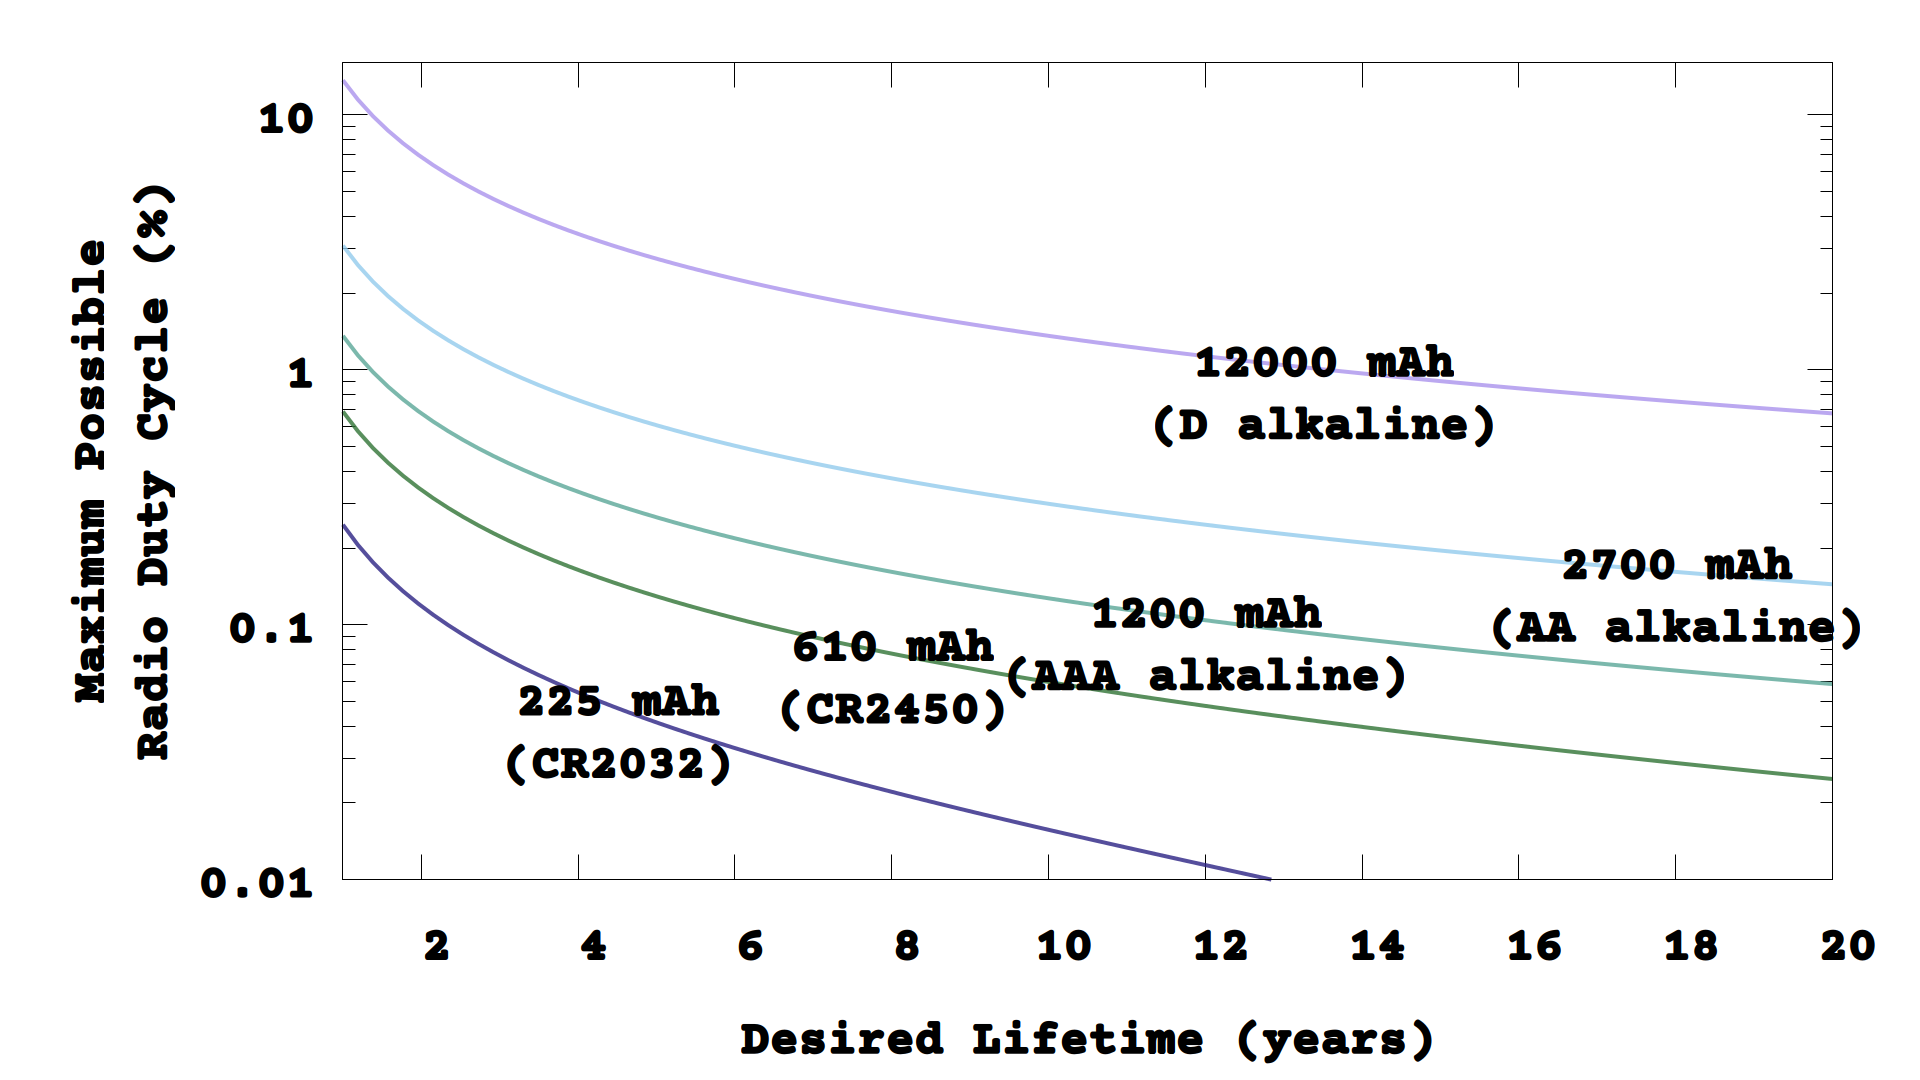
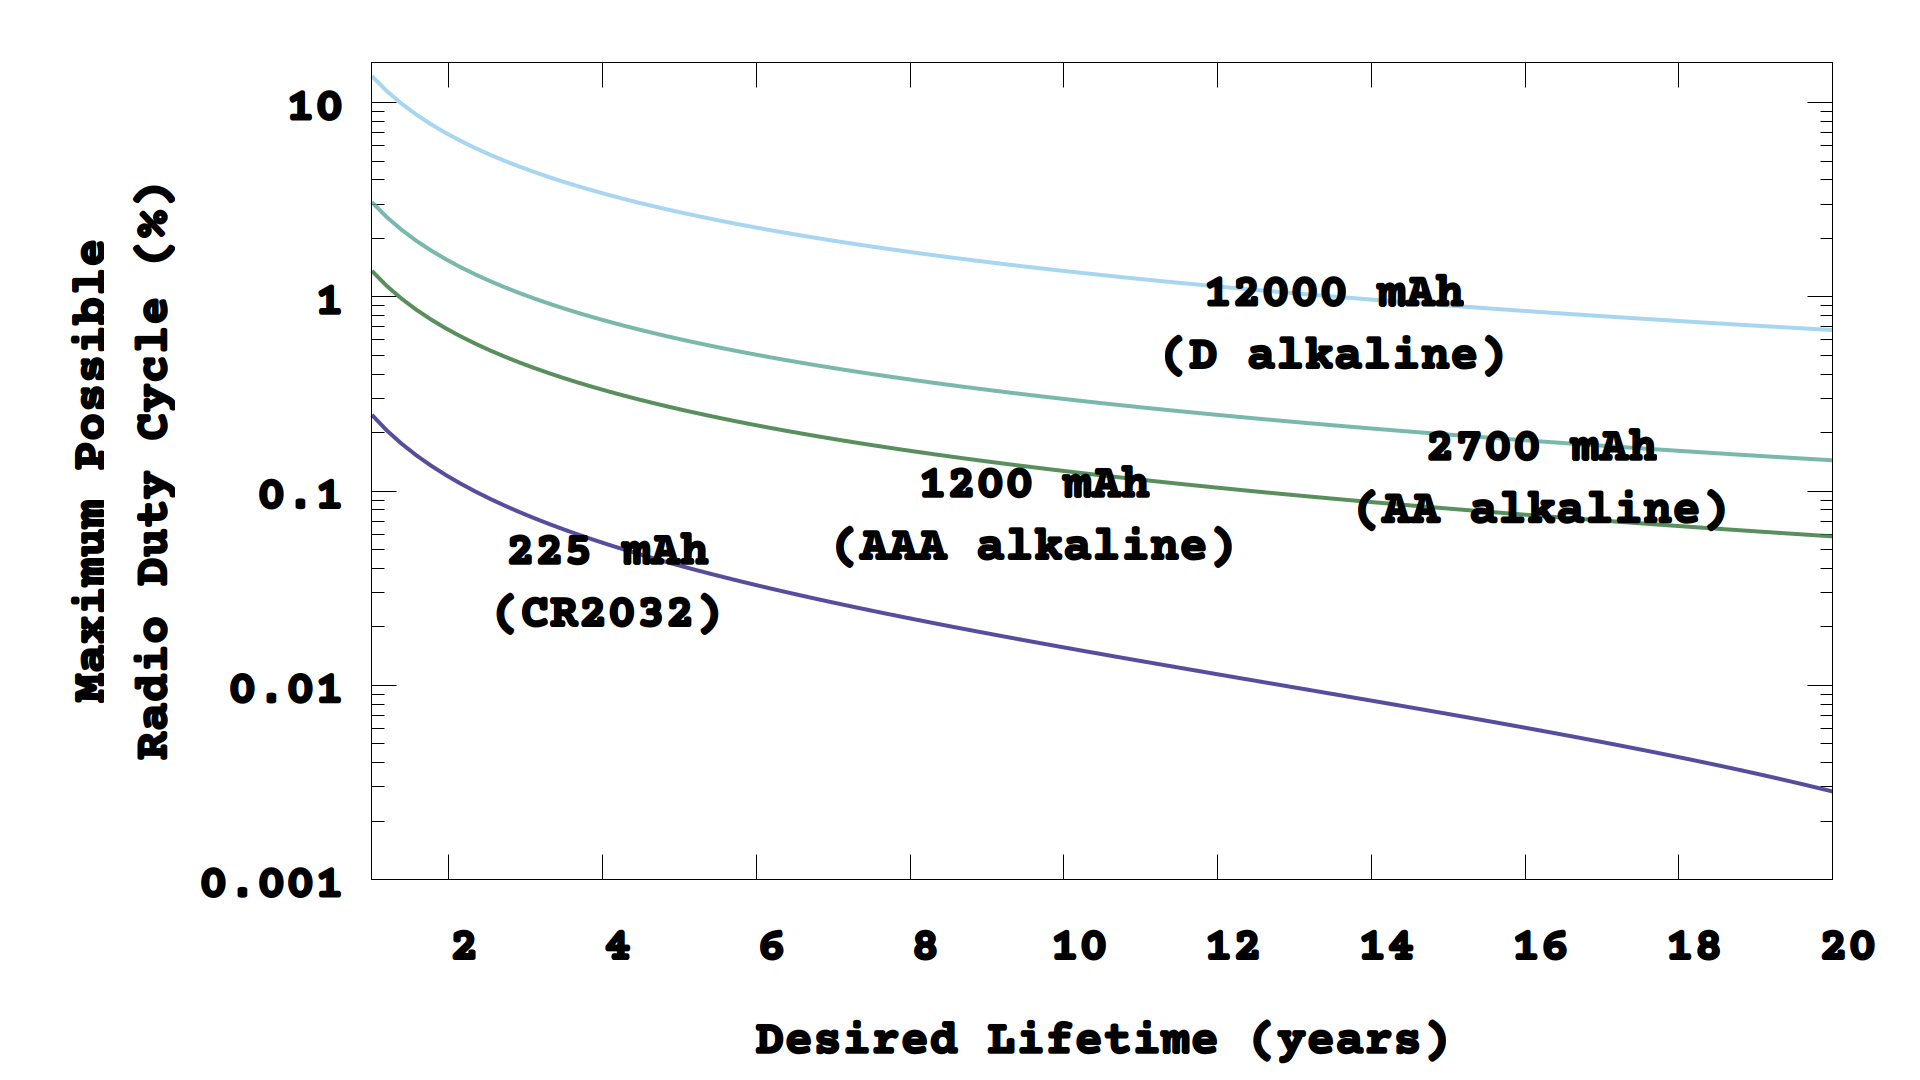
Rich talk final version

diff --git a/presentations/2026-05-PIPTagsAndTO/presentation.md b/presentations/2026-05-PIPTagsAndTO/presentation.md
@@ -47,7 +47,7 @@ Bernhard Firner
 
 ## Problems
 
-* We wanted bigger data and a smarter Internet of Things
+* We wanted more data, pervasive sensors, and a smarter Internet of Things
 * The world wasn't actually ready to use all of that data
 * But, at the time, we had another fundamental issue
   * Wireless capacity isn't limitless
@@ -101,9 +101,9 @@ Extend graph to 20 years.
 <div class="container">
 <div class="col">
 
-* Minimizing energy consumption begins with measurements
-* The first spike is from waking up the MCU
-* The second, long plateau is data transmission
+* Energy consumption optimization begins with measurements
+* We used an oscilloscope to measure power consumption
+  * Just calculate the area under the curve
 
 </div>
 <div class="col">
@@ -117,20 +117,20 @@ Extend graph to 20 years.
 
 ## Advances
 
-* That example was from 2008
+* That trace was from 2008
 * Here is the result of a few years of hardware and software optimizations
 
 <div class="container">
 <div class="col">
 
-<img style="width: 80%" class="r-stretch" src="./figures/oscilloscope_9.jpg" />
+<img style="width: 90%" class="r-stretch" src="./figures/oscilloscope_9.jpg" />
 <br/>
 <small>We cleaned up the circuit, shortened the preamble, and replaced CRC with parity.</small>
 
 </div>
 <div class="col">
 
-<img style="width: 80%" class="r-stretch" src="./figures/temp16_annotated.jpg" />
+<img style="width: 90%" class="r-stretch" src="./figures/temp16_annotated.jpg" />
 <br/>
 <small>Each type of sensing is done at a different time schedule, decoupling them from radio activity. This is temperature sensing.</small>
 
@@ -154,7 +154,7 @@ Extend graph to 20 years.
 * A light, temperature, and humidity sensor could run for 8-9 years on a coin cell
   * Temperature and humidity sampled every 15 seconds
   * Light samples every 15s
-  * Update every 15s
+  * Transmit every 15s
 * Every 120s a long beacon is sent with logarithmically placed history
   * This fills in gaps during outages
 
@@ -162,11 +162,11 @@ Extend graph to 20 years.
 
 ## Side Story: Sensing
 
-* All of the sensors were power optimized
+* All sensing is power optimized
 * Light sensing, for example, involves charging an LED
-  * The LED will discharge more rapidly if exposed to the light
-* To sense, the MCU wakes up and charges the LED, then return to sleep
-  * And interrupt wakes it when the LED discharges, and the time is recorded
+  * The LED discharges more rapidly if exposed to the light
+* To sense, the MCU wakes up and charges the LED, then returns to sleep
+  * An interrupt wakes it when the LED discharges, and the time is recorded
 
 ---
 
@@ -204,10 +204,22 @@ Extend graph to 20 years.
 ## Improving Captures
 
 * If the distant transmitter begins first, it will be interrupted by the stronger signal
-  * And they will both be lost, since the radio was busy
+  * And they will both be lost, since the radio was busy with the weak signal
+
+<div class="container">
+<div class="col">
+
 * Solution, part 1: Use two radios on the receiver
 * Solution, part 2: Use multiple receivers, so neither packet is lost
   * Arrange the receivers so pairwise collisions at the same power level are minimized
+
+</div>
+<div class="col">
+<img style="width: 70%" class="r-stretch" src="./figures/bpip.jpg" />
+<br/>
+<small>A two radio receiver.</small>
+</div>
+</div>
 
 -v-
 